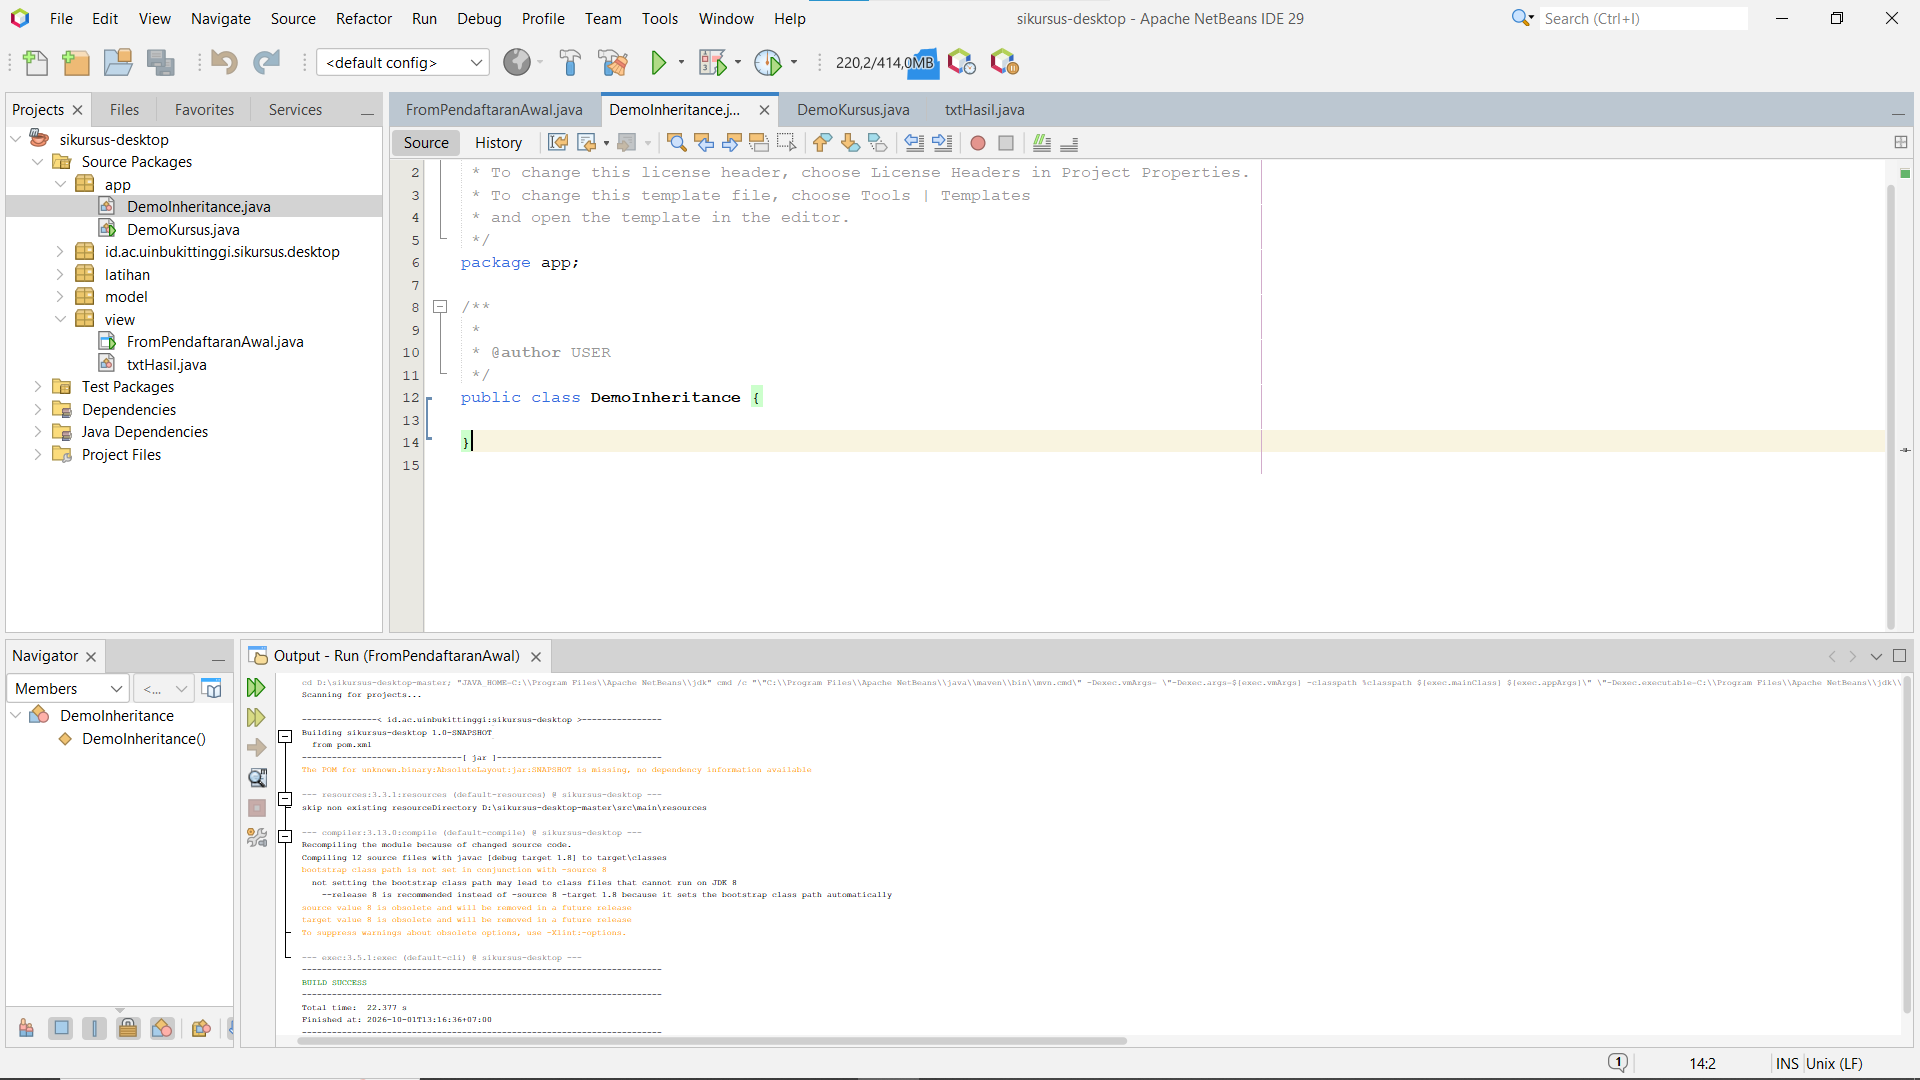
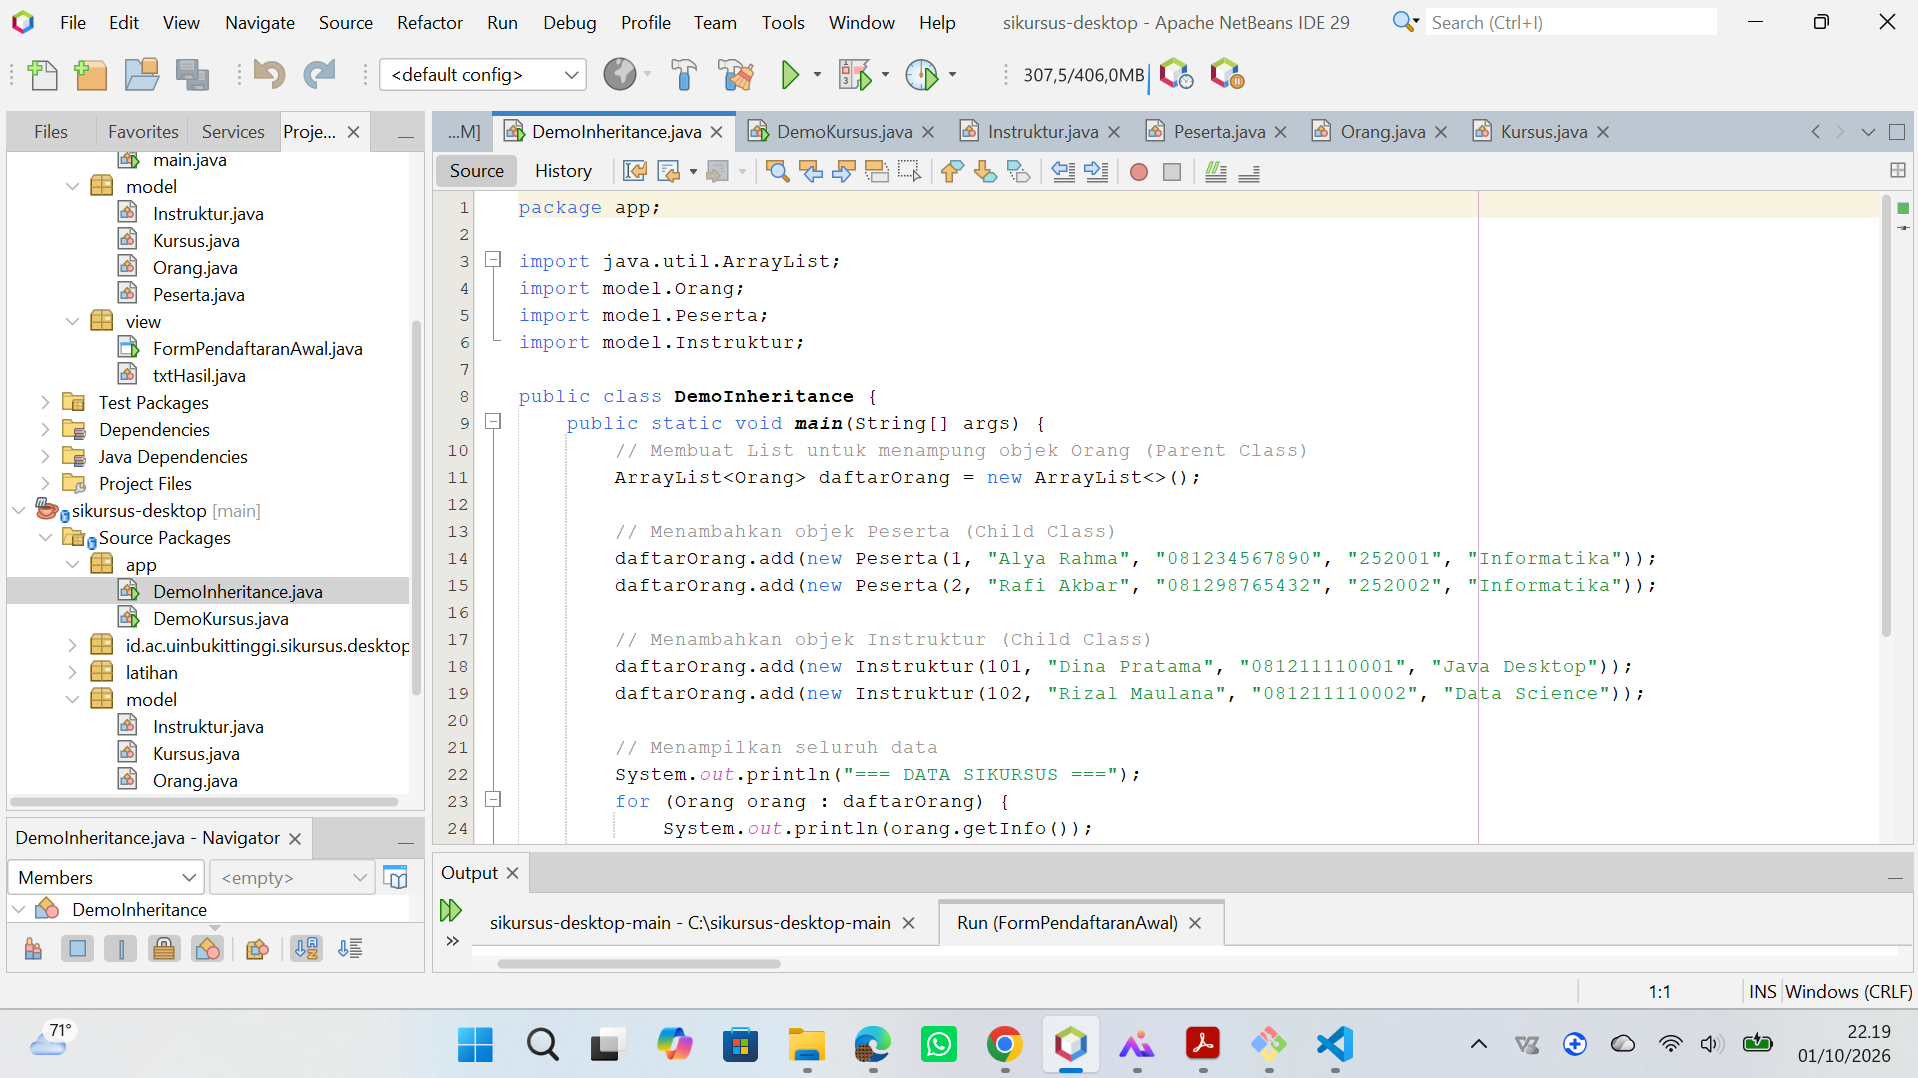
sikursus-desktop

diff --git a/src/main/java/view/FormPendaftaranAwal.java b/src/main/java/view/FormPendaftaranAwal.java
@@ -38,7 +38,7 @@ public class FormPendaftaranAwal extends javax.swing.JFrame {
 
         jPanel1.setBackground(new java.awt.Color(204, 204, 255));
 
-        jLabel1.setText("jLabel1");
+        jLabel1.setText("FORM PENDAFTARAN KURSUS");
 
         jLabel2.setFont(new java.awt.Font("Segoe UI", 1, 12)); // NOI18N
         jLabel2.setText("Kode Kursus");
@@ -82,19 +82,19 @@ public class FormPendaftaranAwal extends javax.swing.JFrame {
         jPanel1Layout.setHorizontalGroup(
             jPanel1Layout.createParallelGroup(javax.swing.GroupLayout.Alignment.LEADING)
             .addGroup(jPanel1Layout.createSequentialGroup()
+                .addContainerGap()
+                .addGroup(jPanel1Layout.createParallelGroup(javax.swing.GroupLayout.Alignment.LEADING)
+                    .addComponent(jLabel3)
+                    .addComponent(jLabel4)
+                    .addComponent(jLabel2)
+                    .addComponent(jLabel5)
+                    .addComponent(jLabel6))
+                .addGap(87, 87, 87)
                 .addGroup(jPanel1Layout.createParallelGroup(javax.swing.GroupLayout.Alignment.LEADING)
                     .addGroup(jPanel1Layout.createSequentialGroup()
-                        .addGap(208, 208, 208)
-                        .addComponent(jLabel1))
+                        .addComponent(jLabel1)
+                        .addContainerGap(javax.swing.GroupLayout.DEFAULT_SIZE, Short.MAX_VALUE))
                     .addGroup(jPanel1Layout.createSequentialGroup()
-                        .addContainerGap()
-                        .addGroup(jPanel1Layout.createParallelGroup(javax.swing.GroupLayout.Alignment.LEADING)
-                            .addComponent(jLabel3)
-                            .addComponent(jLabel4)
-                            .addComponent(jLabel2)
-                            .addComponent(jLabel5)
-                            .addComponent(jLabel6))
-                        .addGap(87, 87, 87)
                         .addGroup(jPanel1Layout.createParallelGroup(javax.swing.GroupLayout.Alignment.LEADING)
                             .addComponent(jScrollPane1)
                             .addComponent(jScrollPane3)
@@ -108,8 +108,8 @@ public class FormPendaftaranAwal extends javax.swing.JFrame {
                                         .addGap(61, 61, 61)
                                         .addComponent(btnReset))
                                     .addComponent(jScrollPane2, javax.swing.GroupLayout.PREFERRED_SIZE, 224, javax.swing.GroupLayout.PREFERRED_SIZE))
-                                .addGap(0, 0, Short.MAX_VALUE)))))
-                .addGap(91, 91, 91))
+                                .addGap(0, 0, Short.MAX_VALUE)))
+                        .addGap(91, 91, 91))))
         );
         jPanel1Layout.setVerticalGroup(
             jPanel1Layout.createParallelGroup(javax.swing.GroupLayout.Alignment.LEADING)
